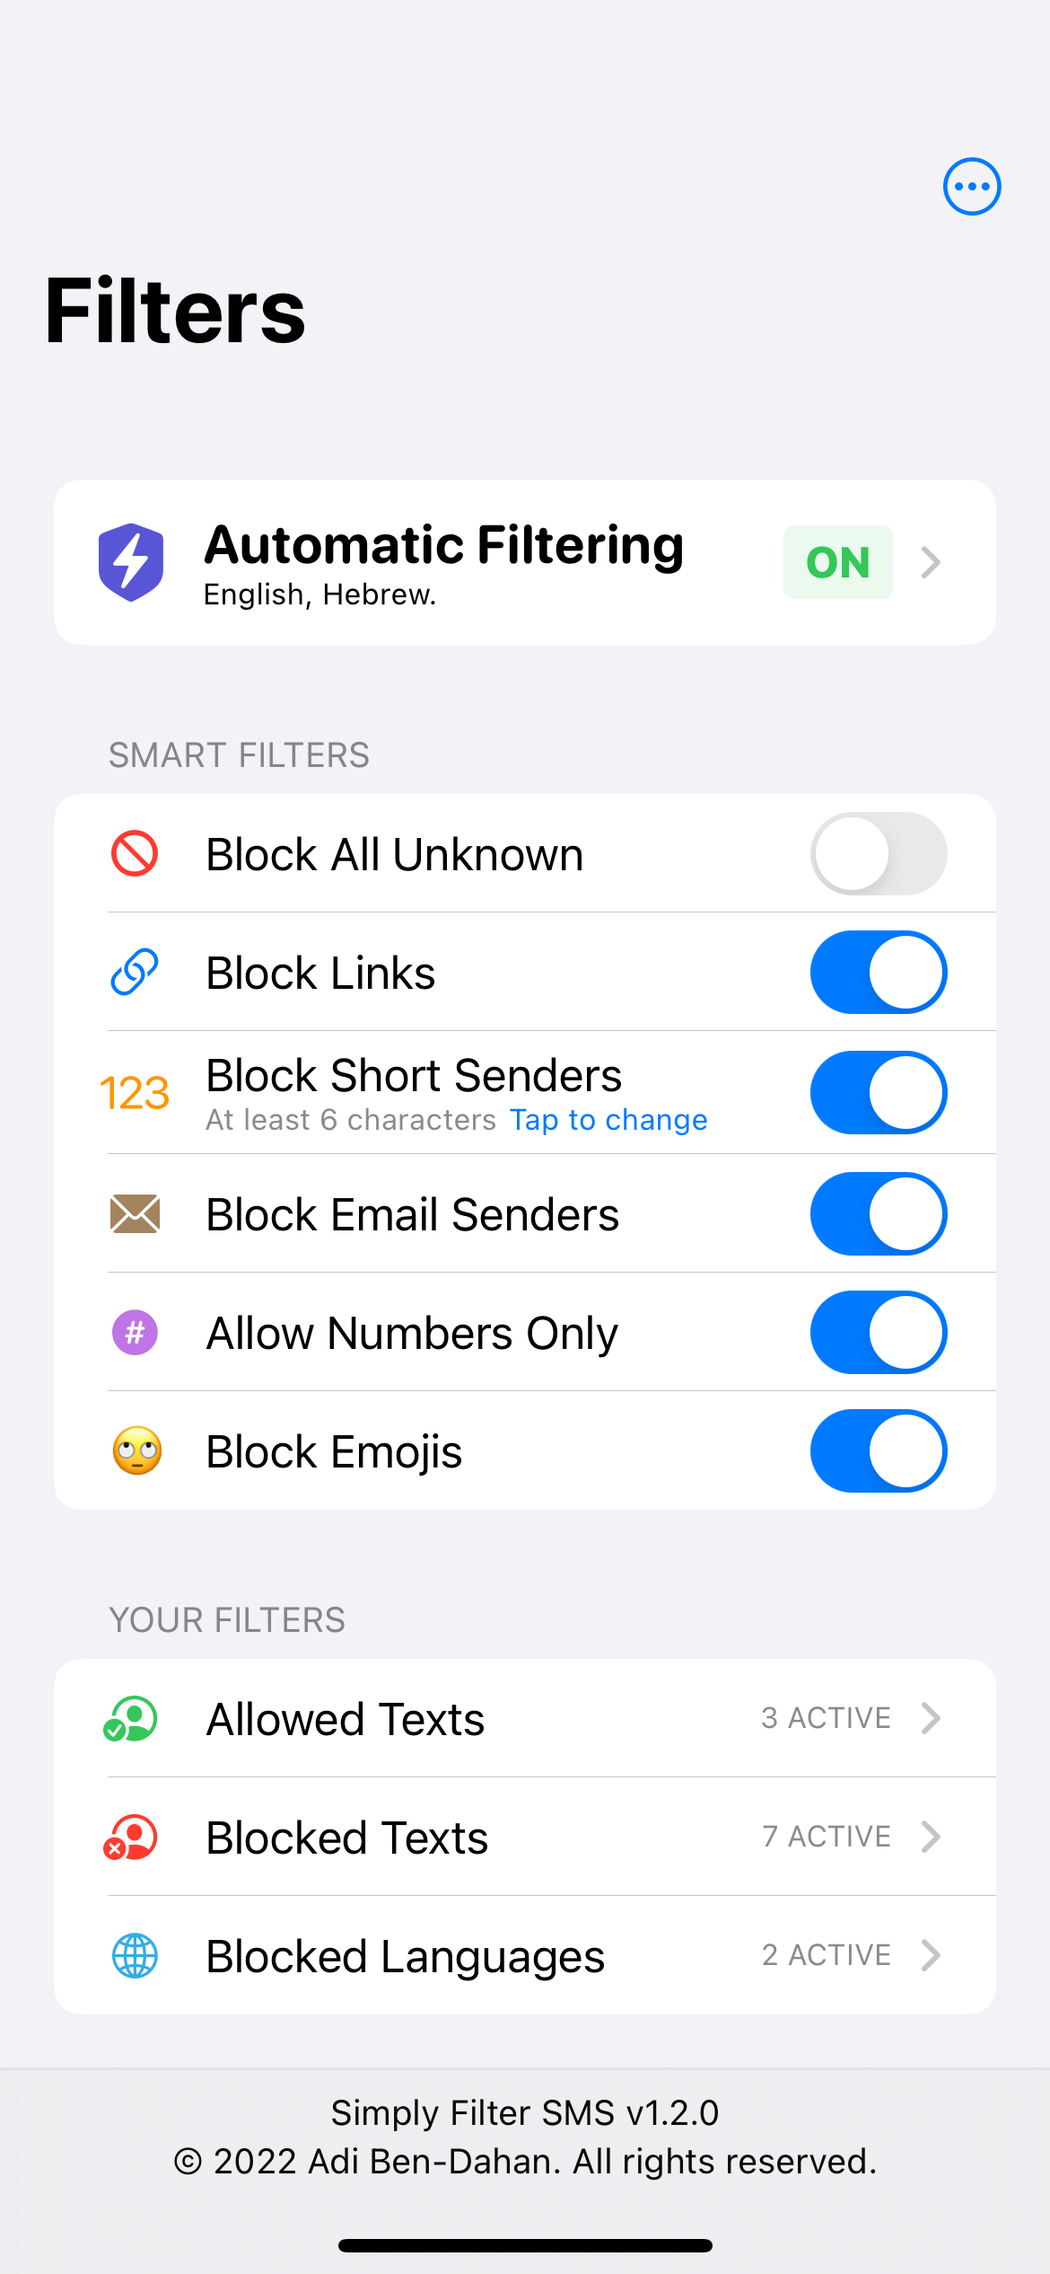
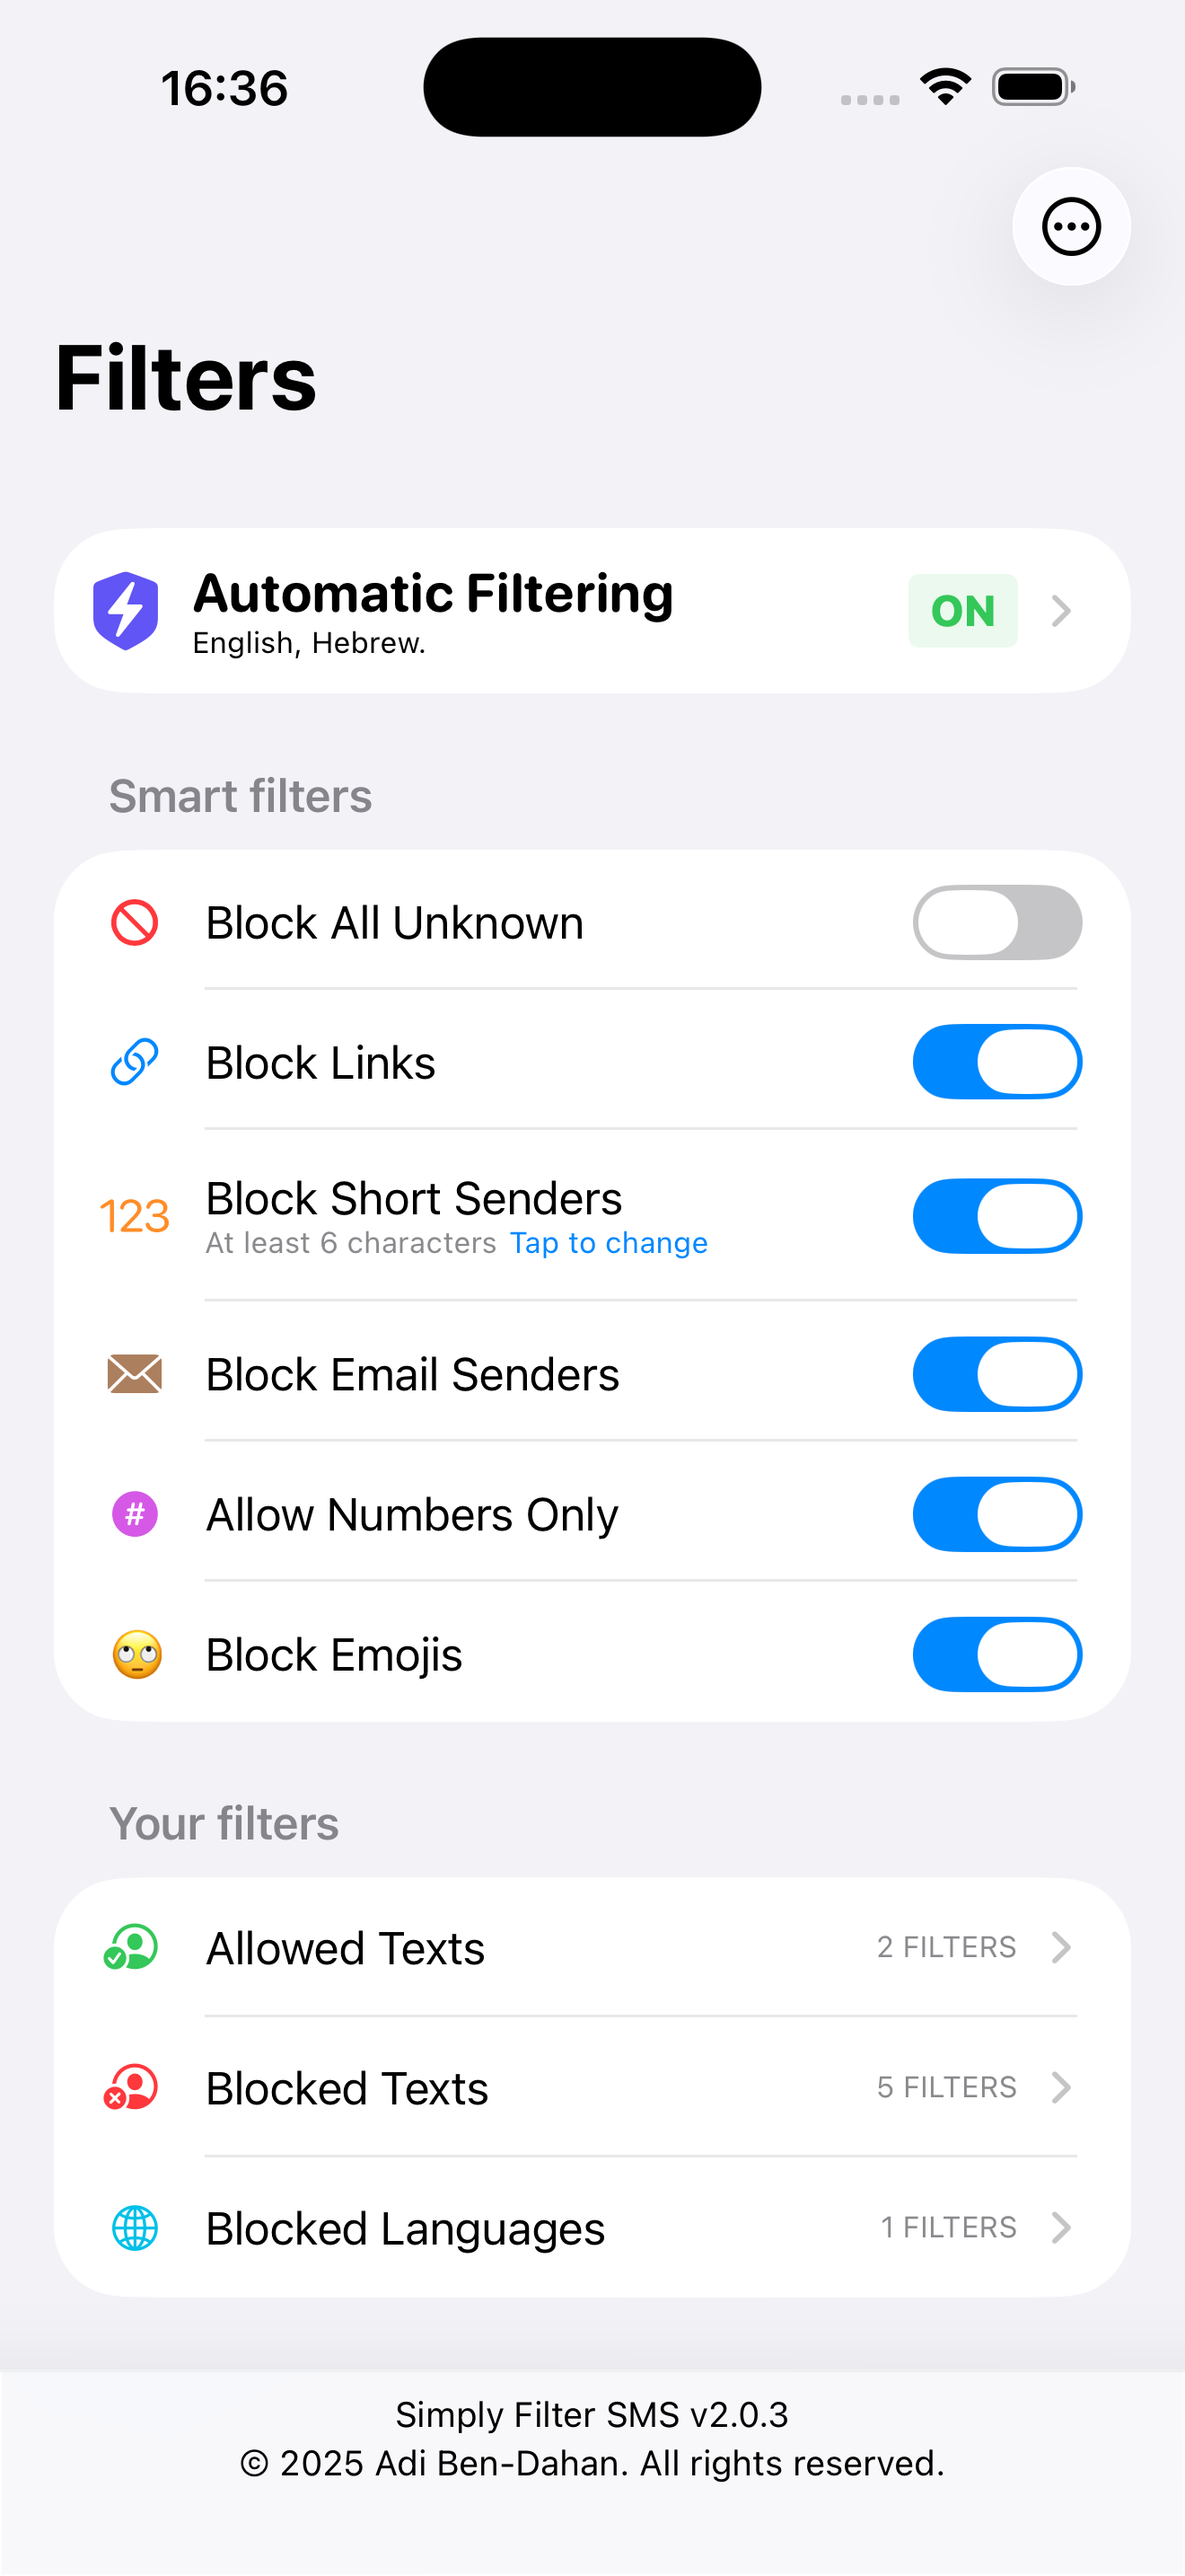
Update Screenshots and readme

diff --git a/README.md b/README.md
@@ -69,6 +69,7 @@ Simply Filter SMS is written in Apple's latest programming paradigm SwiftUI.
 <img width="250" src="_screenshots/04.png">
 <img width="250" src="_screenshots/05.png">
 <img width="250" src="_screenshots/06.png">
+<img width="250" src="_screenshots/07.png">
 </p>
 
 
@@ -114,7 +115,7 @@ Simply Filter SMS is open for pull-request business.
 
 ## License
 
-[MIT](https://github.com/adibendahan/SimplyFilterSMS-iOS/blob/main/LICENSE) 2022 © Adi Ben-Dahan. All rights reserved.
+[MIT](https://github.com/adibendahan/SimplyFilterSMS-iOS/blob/main/LICENSE) 2025 © Adi Ben-Dahan. All rights reserved.
 
 
 [contributors-shield]: https://img.shields.io/github/contributors/adibendahan/SimplyFilterSMS-iOS?style=for-the-badge
